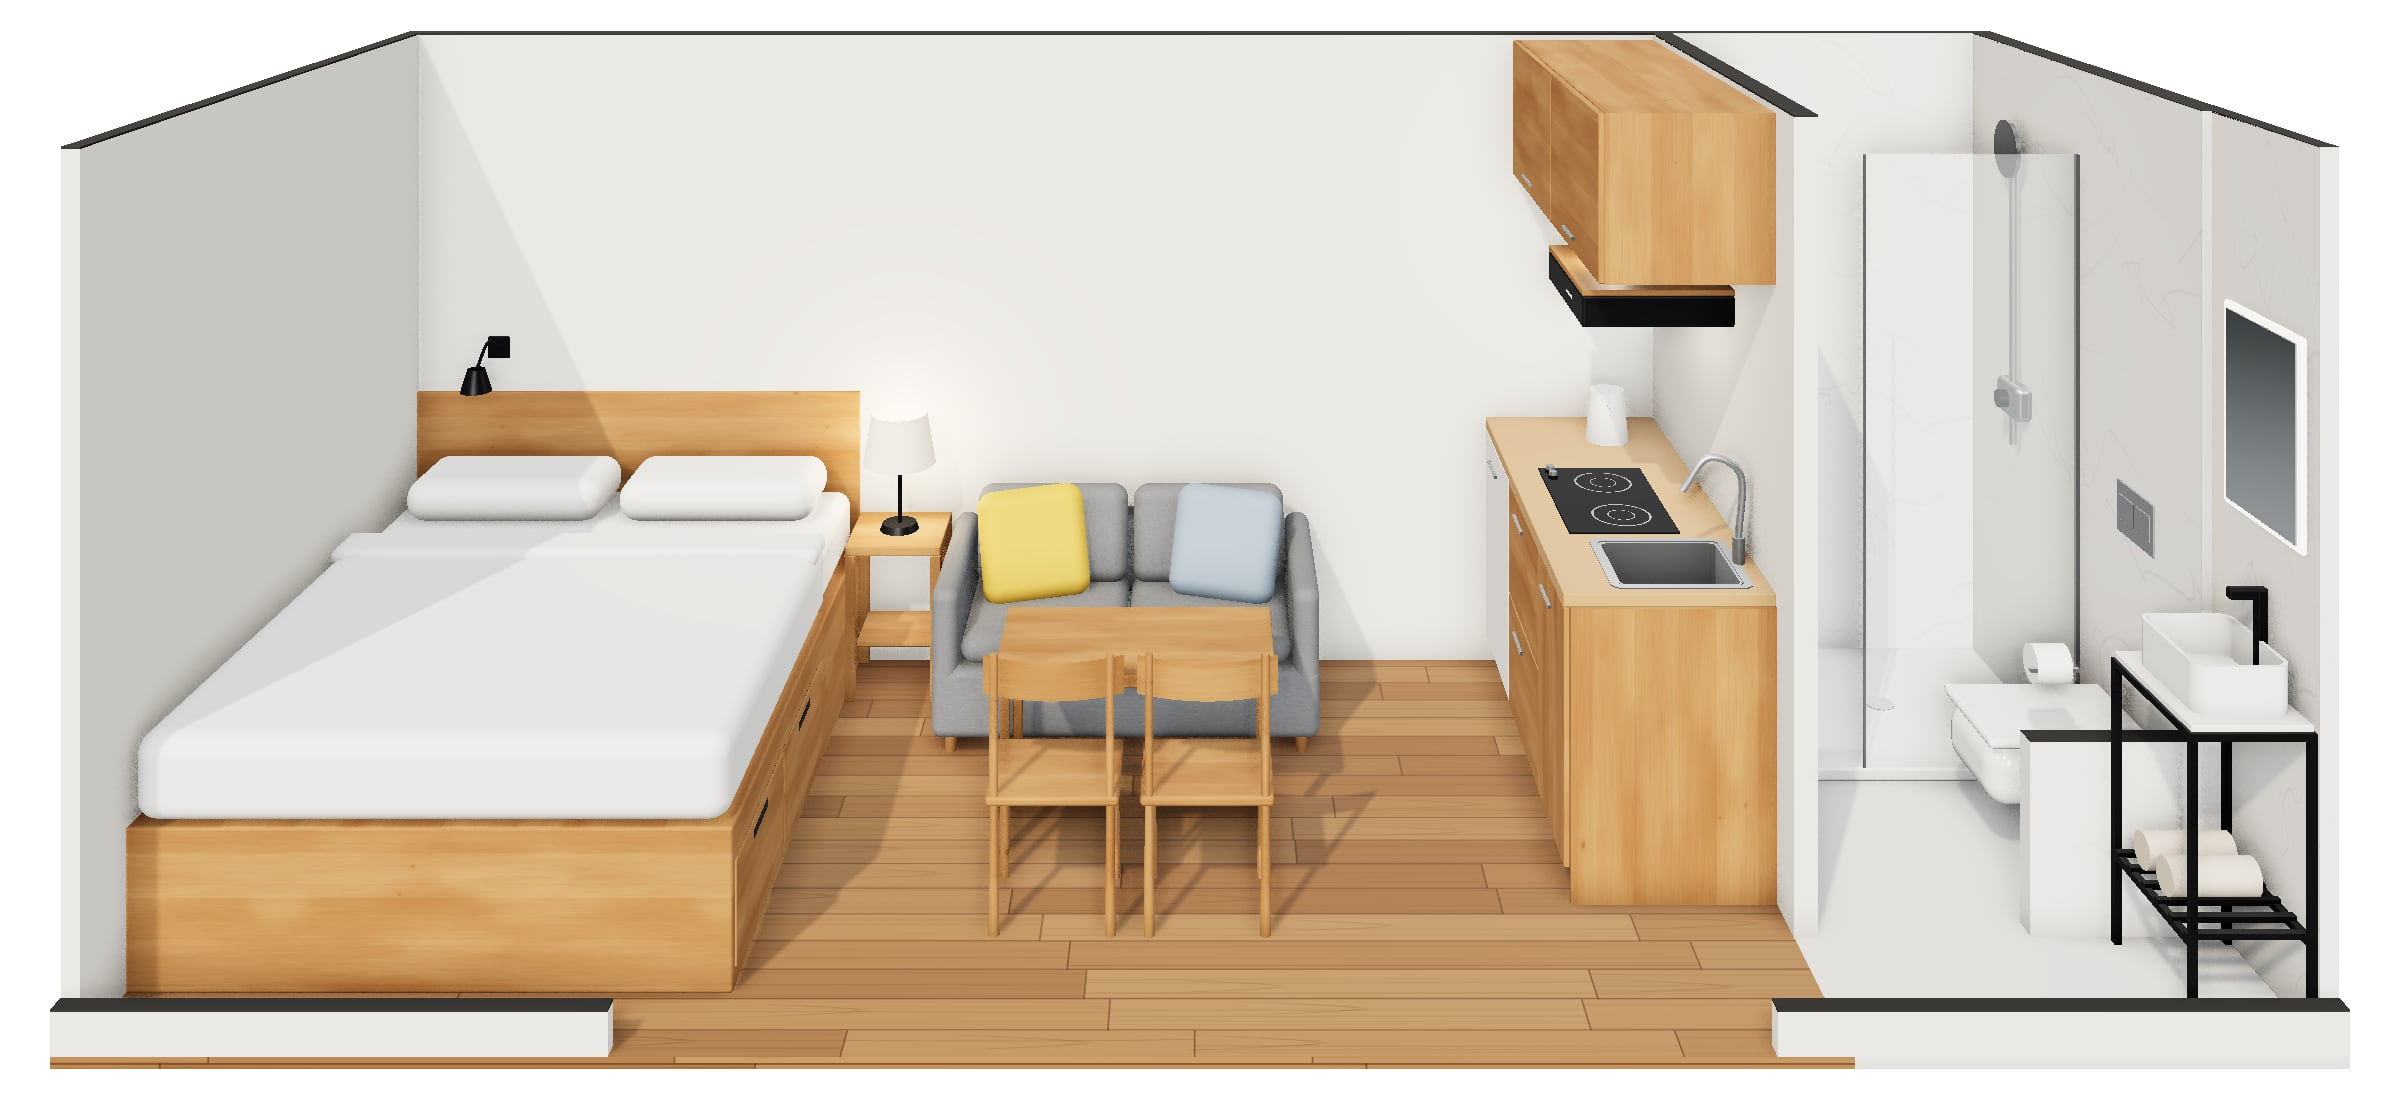
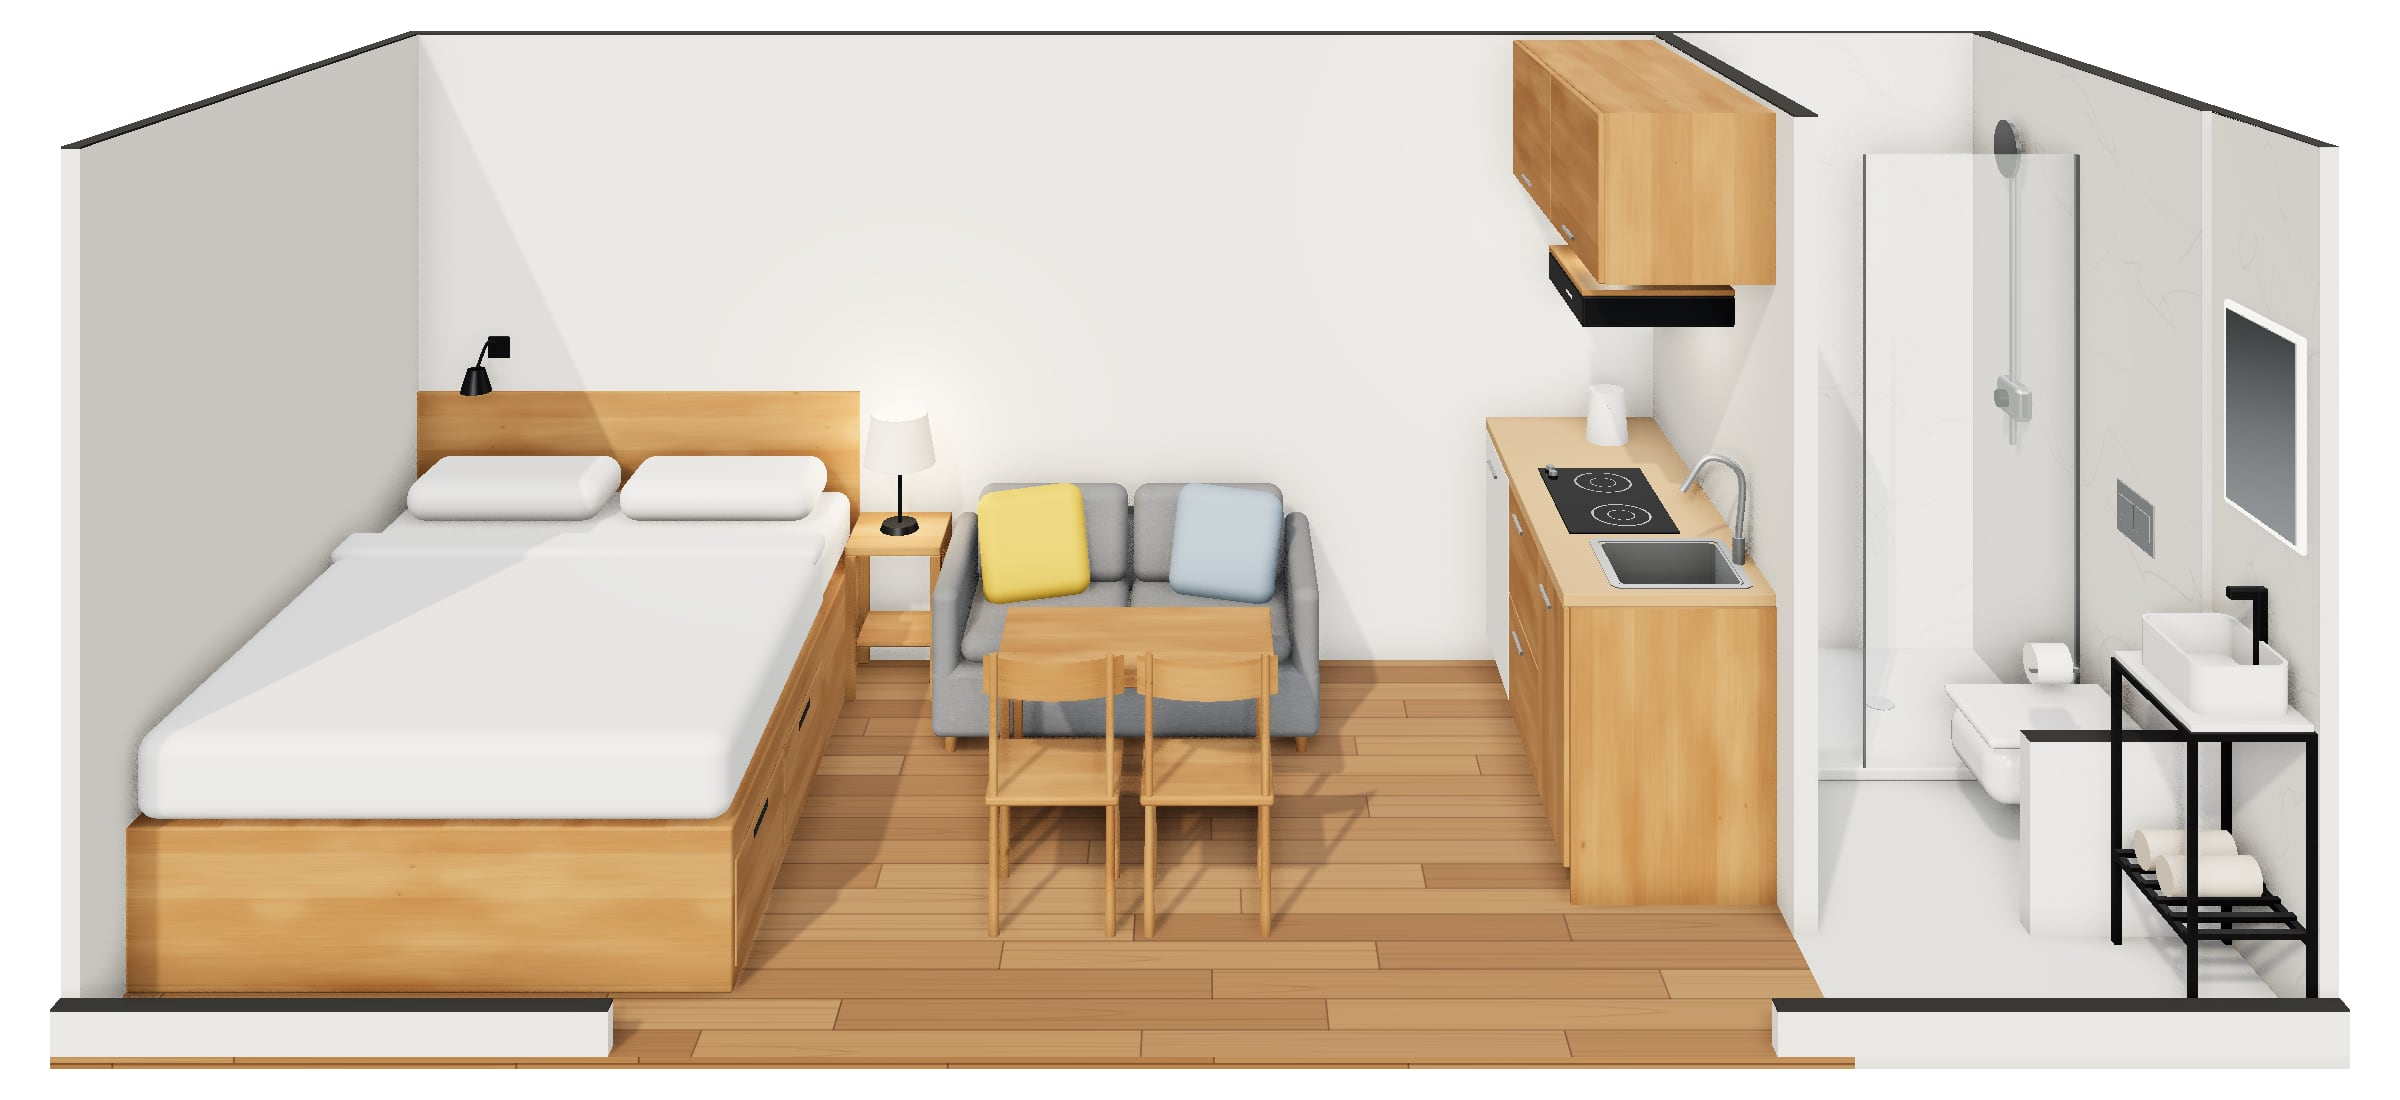
fix(studio): lay the floor planks like a fitter would
The founder asked to distribute the floor properly. Each row started at
a fixed step from the one before, so plank ends marched across the
floor in diagonal staircases and some lined up row to row (worst by the
galley). Now each end joint keeps at least 300 mm from the joints in
the row before and 150 mm from two rows back, lengths stay random
(0.9-1.8 m), and shades come from a shuffled bag so each appears evenly
and never twice side by side. Colour unchanged (render 184,139,94 vs
the oak photo's 186,139,98).

Claude-Session: https://claude.ai/code/session_01KRyNxX68L5feJKbJnBKRyV

diff --git a/scripts/studio/render/room.html b/scripts/studio/render/room.html
@@ -176,11 +176,33 @@ const T = LINE ? {} : {
   planks: tex((g, w, h) => {
     const tones = ["#b98b5b", "#c39663", "#a97c4f", "#bd9264", "#ae8255", "#c79b6a", "#b38556"]
     const rows = 18, rh = h / rows
+    // laid as a fitter would: random lengths, each end joint at least 300 mm from those in the row before
+    // and 150 mm from two rows back (no staircases, no H-joints); shades drawn from a shuffled bag, so each
+    // appears evenly and never twice side by side
+    const MIN1 = 128, MIN2 = 64 // 300 and 150 mm at 0.4267 px/mm
+    let bag = [], last = -1, above = [], above2 = []
+    const shade = () => {
+      if (!bag.length) {
+        bag = tones.map((_, i) => i)
+        for (let i = bag.length - 1; i > 0; i--) { const j = Math.floor(rnd() * (i + 1)); [bag[i], bag[j]] = [bag[j], bag[i]] }
+      }
+      let i = bag.pop()
+      if (i === last && bag.length) { const j = bag.pop(); bag.unshift(i); i = j }
+      return tones[(last = i)]
+    }
+    const clear = (j) => above.every((p) => Math.abs(p - j) >= MIN1) && above2.every((p) => Math.abs(p - j) >= MIN2)
     for (let r = 0; r < rows; r++) {
-      let x = -((r * 157) % 520)
+      const joints = []
+      let x = -Math.floor(rnd() * 700)
       while (x < w) {
-        const len = 384 + Math.floor(rnd() * 384), y0 = r * rh
-        g.fillStyle = tones[Math.floor(rnd() * tones.length)]; g.fillRect(x, y0, len, rh)
+        const y0 = r * rh
+        let len = 0
+        for (let t = 0; t < 40; t++) { // a length whose end joint clears the rows above
+          len = 384 + Math.floor(rnd() * 384)
+          if (x + len >= w || clear(x + len)) break
+        }
+        joints.push(x + len)
+        g.fillStyle = shade(); g.fillRect(x, y0, len, rh)
         for (let i = 0; i < 7; i++) { // long grain
           const y = y0 + rnd() * rh
           g.strokeStyle = `rgba(110,72,38,${0.08 + rnd() * 0.14})`; g.lineWidth = 0.7 + rnd() * 1.4
@@ -199,6 +221,7 @@ const T = LINE ? {} : {
         g.fillStyle = "rgba(70,44,22,0.55)"; g.fillRect(x, y0, 2, rh) // end joint
         x += len
       }
+      above2 = above; above = joints
       g.fillStyle = "rgba(70,44,22,0.5)"; g.fillRect(0, r * rh, w, 2) // long joint
     }
   }, 2048, 1024),
